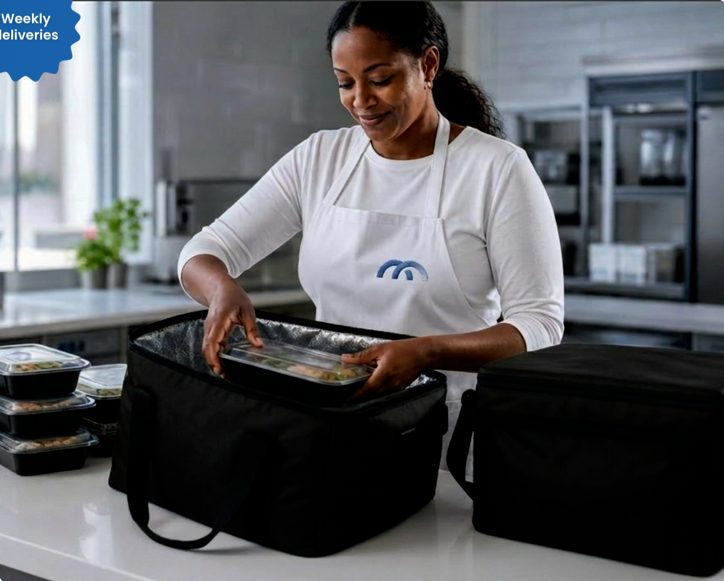
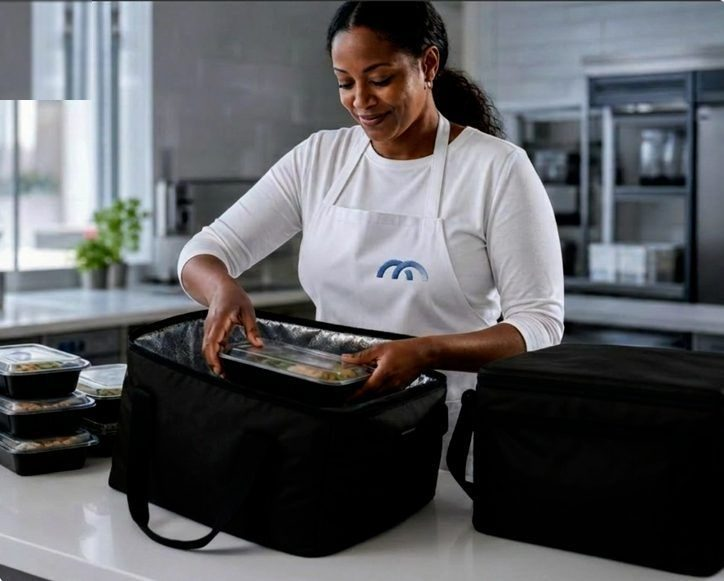
Fix seal badge anchoring, erase baked-in badge, add spin + hover effects
SealBadge hardcoded 'relative' on the wrapper that callers positioned
with 'absolute', so both badges fell out of their anchors (photo badge
landed bottom-left, meals badge dropped below the heading). The badge
baked into program.jpg is patched out; the DOM badge now anchors
top-left, the seal slowly rotates behind its static label, and badges
spring-scale on hover.

Changed region(s): [[0.0, 0.0, 0.1519, 0.1859]]

diff --git a/src/components/program-section.tsx b/src/components/program-section.tsx
@@ -1,5 +1,7 @@
 "use client";
 
+import { motion } from "motion/react";
+
 import { useLanguage } from "@/components/language-provider";
 import { Reveal } from "@/components/reveal";
 
@@ -34,15 +36,28 @@ function SealBadge({
   className?: string;
 }) {
   return (
-    <div className={`relative ${className}`}>
-      <svg viewBox="0 0 100 100" className="h-full w-full" aria-hidden="true">
-        <path d={SEAL_PATH} fill="#2b62c4" />
-      </svg>
-      <div className="absolute inset-0 flex flex-col items-center justify-center text-center text-white">
-        <span className="text-[13px] font-semibold leading-tight">{line1}</span>
-        <span className="text-[11px] font-medium leading-tight">{line2}</span>
+    <motion.div
+      whileHover={{ scale: 1.12 }}
+      transition={{ type: "spring", stiffness: 260, damping: 18 }}
+      className={className}
+    >
+      <div className="relative h-full w-full">
+        {/* The scalloped seal slowly rotates behind the (static) label. */}
+        <svg
+          viewBox="0 0 100 100"
+          className="h-full w-full animate-[spin_24s_linear_infinite]"
+          aria-hidden="true"
+        >
+          <path d={SEAL_PATH} fill="#2b62c4" />
+        </svg>
+        <div className="absolute inset-0 flex flex-col items-center justify-center text-center text-white">
+          <span className="text-[13px] font-semibold leading-tight">
+            {line1}
+          </span>
+          <span className="text-[11px] font-medium leading-tight">{line2}</span>
+        </div>
       </div>
-    </div>
+    </motion.div>
   );
 }
 
